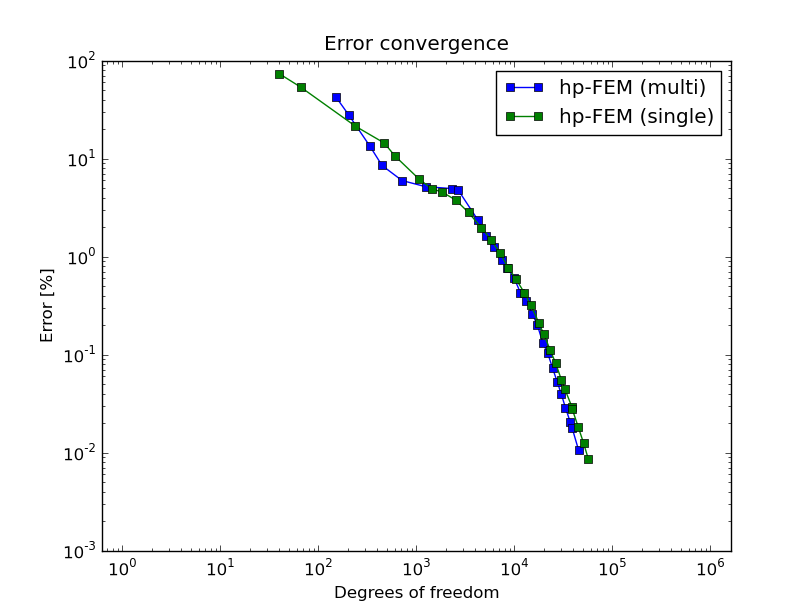
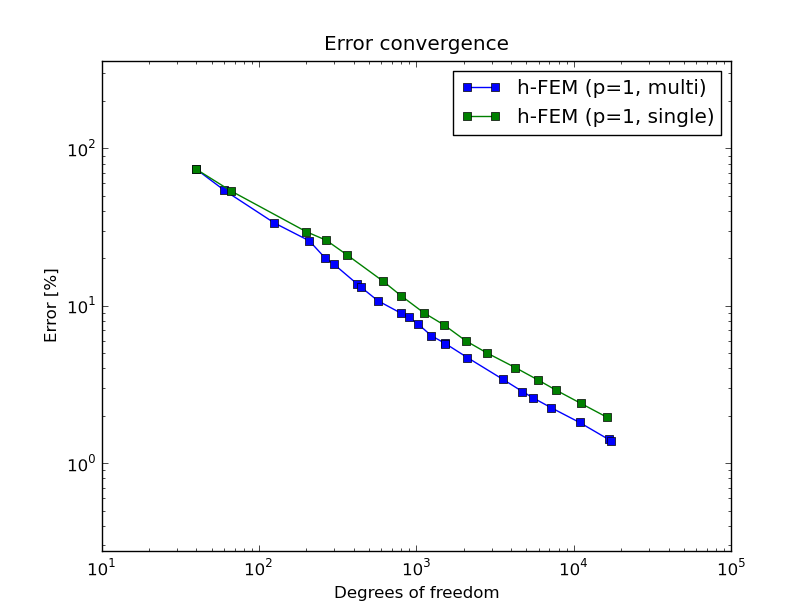
Tutorial work.

diff --git a/examples/thermoelasticity/main.cpp b/examples/thermoelasticity/main.cpp
@@ -14,9 +14,9 @@
 //     temp = TEMP_INNER on Gamma_4
 //     negative heat flux with HEAT_FLUX_OUTER elsewhere
 
-const int P_INIT_TEMP = 2;       // Initial polynomial degrees in temperature mesh.
-const int P_INIT_DISP = 2;       // Initial polynomial degrees for displacement meshes.
-const bool MULTI = false;         // MULTI = true  ... use multi-mesh,
+const int P_INIT_TEMP = 1;       // Initial polynomial degrees in temperature mesh.
+const int P_INIT_DISP = 1;       // Initial polynomial degrees for displacement meshes.
+const bool MULTI = true;         // MULTI = true  ... use multi-mesh,
                                  // MULTI = false ... use single-mesh.
                                  // Note: In the single mesh option, the meshes are
                                  // forced to be geometrically the same but the
@@ -54,7 +54,7 @@ const int MESH_REGULARITY = -1;  // Maximum allowed level of hanging nodes:
                                  // their notoriously bad performance.
 const double CONV_EXP = 1.0;     // Default value is 1.0. This parameter influences the selection of 
                                  // cancidates in hp-adaptivity. See get_optimal_refinement() for details.
-const int MAXIMUM_ORDER = 10;    // Maximum allowed element degree
+const int MAXIMUM_ORDER = 10;     // Maximum allowed element degree
 const double ERR_STOP = 0.01;     // Stopping criterion for adaptivity (rel. error tolerance between the
                                  // fine mesh and coarse mesh solution in percent).
 const int NDOF_STOP = 60000;     // Adaptivity process stops when the number of degrees of freedom grows over

diff --git a/doc/src/img/thermoelasticity/plot_compar_dof.py b/doc/src/img/thermoelasticity/plot_compar_dof.py
@@ -7,14 +7,14 @@ axis('equal')
 pylab.title("Error convergence")
 pylab.xlabel("Degrees of freedom")
 pylab.ylabel("Error [%]")
-data = numpy.loadtxt("conv_dof_hp_m.dat")
+data = numpy.loadtxt("conv_dof_h1_m.dat")
 x = data[:, 0]
 y = data[:, 1]
-loglog(x, y, "-s", label="hp-FEM (multi)")
-data = numpy.loadtxt("conv_dof_hp_s.dat")
+loglog(x, y, "-s", label="h-FEM (p=1, multi)")
+data = numpy.loadtxt("conv_dof_h1_s.dat")
 x = data[:, 0]
 y = data[:, 1]
-loglog(x, y, "-s", label="hp-FEM (single)")
+loglog(x, y, "-s", label="h-FEM (p=1, single)")
 legend()
 
 # finalize

diff --git a/doc/src/img/thermoelasticity/plot_compar_cpu.py b/doc/src/img/thermoelasticity/plot_compar_cpu.py
@@ -7,14 +7,14 @@ axis('equal')
 pylab.title("Error convergence")
 pylab.xlabel("CPU time")
 pylab.ylabel("Error [%]")
-data = numpy.loadtxt("conv_cpu_hp_m.dat")
+data = numpy.loadtxt("conv_cpu_h1_m.dat")
 x = data[:, 0]
 y = data[:, 1]
-loglog(x, y, "-s", label="hp-FEM (multi)")
-data = numpy.loadtxt("conv_cpu_hp_s.dat")
+loglog(x, y, "-s", label="h-FEM (p=1, multi)")
+data = numpy.loadtxt("conv_cpu_h1_s.dat")
 x = data[:, 0]
 y = data[:, 1]
-loglog(x, y, "-s", label="hp-FEM (single)")
+loglog(x, y, "-s", label="h-FEM (p=1, single)")
 legend()
 
 # finalize

diff --git a/doc/src/tutorial.rst b/doc/src/tutorial.rst
@@ -1726,8 +1726,6 @@ DOF and CPU time convergence graphs are below:
 For other applications of the multimesh hp-FEM see a `linear elasticity model with cracks 
 <http://hpfem.org/hermes2d/doc/src/examples.html#crack>`_ and
 a `thermoelasticity example <http://hpfem.org/hermes2d/doc/src/examples.html#thermoelasticity>`_.
-Especially in the latter the participating physical fields exhibit larger differences and thus 
-also the advantage of the multimesh discretization becomes more significant. 
 
 Adaptivity for General 2nd-Order Linear Equation
 ------------------------------------------------
@@ -2264,8 +2262,8 @@ Convergence in CPU time.
    :height: 400
    :alt: CPU convergence graph for tutorial example 15.
 
-Nonlinear Time-Dependent Problem
---------------------------------
+Nonlinear Parabolic Problem
+---------------------------
 
 More information to this example can be found in the `main.cpp 
 <http://hpfem.org/git/gitweb.cgi/hermes2d.git/blob/HEAD:/tutorial/16-newton-timedep-heat/main.cpp>`_ file
@@ -2956,6 +2954,88 @@ Snapshot 3:
    :alt: solution
 
 
+====================================================
+Tutorial Part III (Adaptivity with Dynamical Meshes)
+====================================================
+
+(Space-time) adaptive FEM and *hp*-FEM for time-dependent PDE and PDE systems is one of 
+the most advanced techniques Hermes can do. Although we have published it 
+in several `scientific articles 
+<http://hpfem.math.unr.edu/people/pavel/public/papers.html>`_, 
+there is still a lot of space for improvement. Let us know through the
+`Hermes2D mailing list <http://groups.google.com/group/hermes2d/>`_ if 
+you are interested in getting involved. In this part of the tutorial 
+we explain the basic idea of the method and show several examples.
+
+Basic Idea
+----------
+
+The adaptivity with dynamical meshes in Hermes is based on the combination 
+of the multimesh *hp*-FEM with the classical Rothe's method. 
+
+The Rothe's method is a natural counterpart of the widely used Method of Lines (MOL). 
+Recall that the MOL performs discretization in space while 
+keeping the time variable continuous, which leads to a system of ODEs in time. The Rothe's 
+method, on the contrary, preserves the continuity of the spatial variable while discretizing time. 
+In every time step, an evolutionary PDE is approximated by means of one or more time-independent ones. 
+The number of the time-independent equations per time step is proportional to the order of accuracy of the 
+time discretization method. For example, when employing the implicit Euler method, one 
+has to solve one time-independent PDE per time step. The Rothe's method is fully equivalent to the 
+MOL if no adaptivity in space or time takes place, but it provides a better setting 
+for the application of spatially adaptive algorithms. The spatial discretization error
+can be controlled by solving the time-independent equations adaptively, and the size of 
+the time step can be adjusted using standard ODE techniques. 
+
+For the sake of clarity, let us consider a simple linear parabolic problem 
+
+.. math::
+
+    \frac{\partial u}{\partial t} - \Delta u = f
+
+and discretize the time variable using the implicit Euler method. We obtain 
+
+.. math::
+
+    \frac{u^{n+1} - u^n}{\tau} - \Delta u^{n+1} = f^{n+1},
+
+where 
+
+.. math::
+
+    u^{n+1}(x,y) \approx u(x, y, t^{n+1})\ \mbox{and} \  f^{n+1}(x, y) \approx f(x, y, t^{n+1}).
+
+The equation for $u^{n+1}$ does no longer depend on time and we can solve it adaptively 
+as any other time-independent equation (or equation system). The only thing worth 
+mentioning is that the previous time step approximation $u^n$ is now defined on 
+a locally refined mesh that was obtained during the previous time step. This 
+situation, however, can be handled routinely via the multimesh discretization 
+method. In fact, the user does not have to worry about anything. The methodology is 
+illustrated below.
+
+Nonlinear Parabolic Problem
+---------------------------
+
+Tutorial example `20-newton-timedep-heat-adapt 
+<http://hpfem.org/git/gitweb.cgi/hermes2d.git/tree/HEAD:/tutorial/20-newton-timedep-heat-adapt>`_ ready.
+Sphinx docs coming soon.
 
 
+Flame Propagation Problem
+-------------------------
+
+Coming soon.
+
+
+Navier-Stokes Equations
+-----------------------
+
+Coming soon.
+
+
+Gross-Pitaevski Equation
+------------------------
+
+Tutorial example `23-newton-timedep-gp-adapt 
+<http://hpfem.org/git/gitweb.cgi/hermes2d.git/tree/HEAD:/tutorial/23-newton-timedep-gp-adapt>`_ ready.
+Sphinx docs coming soon.
 

diff --git a/doc/src/examples.rst b/doc/src/examples.rst
@@ -1064,7 +1064,8 @@ CPU time convergence graphs:
    :height: 400
    :alt: CPU convergence graph.
 
-Next let us compare the multimesh hp-FEM with the standard (single-mesh) hp-FEM:
+Next let us compare, for example, multimesh h-FEM with linear elements with the standard (single-mesh)
+h-FEM:
 
 .. image:: img/thermoelasticity/conv_compar_dof.png
    :align: center
@@ -1072,13 +1073,6 @@ Next let us compare the multimesh hp-FEM with the standard (single-mesh) hp-FEM:
    :height: 400
    :alt: DOF convergence graph.
 
-The same comparison in terms of CPU time:
-
-.. image:: img/thermoelasticity/conv_compar_cpu.png
-   :align: center
-   :width: 600
-   :height: 400
-   :alt: CPU convergence graph.
 
 
 
